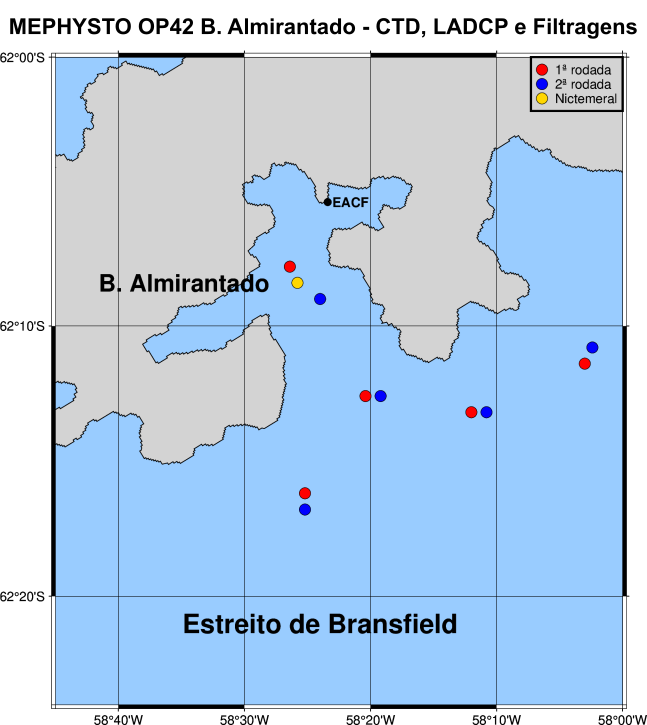
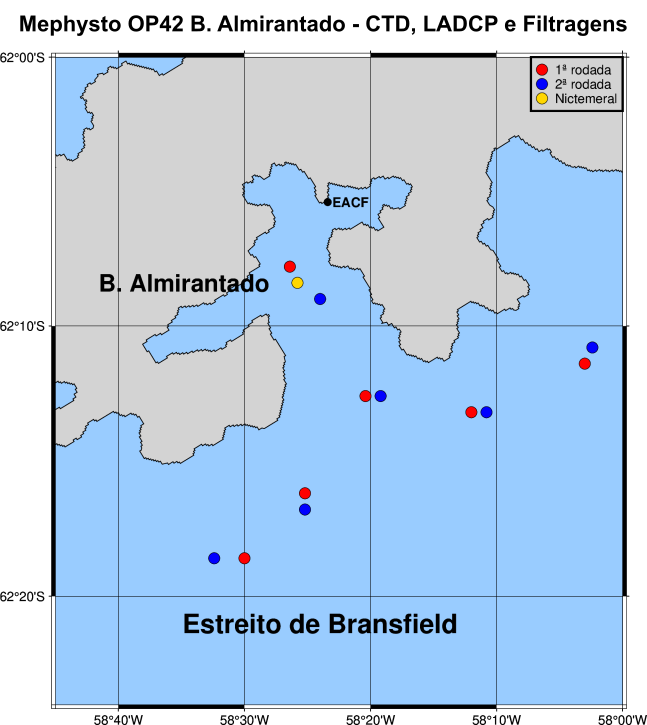
updated an error in coordinates of filtering analysis

Changed region(s): [[0.0, 0.0, 0.9892, 0.0607], [0.3709, 0.7586, 0.4019, 0.789], [0.3091, 0.7586, 0.34, 0.789]]

diff --git a/Python/almirantado_map_filtragens.py b/Python/almirantado_map_filtragens.py
@@ -13,12 +13,14 @@ import pygmt
 # Positions
 station = ("data/almirantado_filtragens.csv")
 st = pd.read_csv(station, names = ["station","latitude", "longitude"], header=0)
-lat_ida = st['latitude'].values[0:5]
-long_ida = st['longitude'].values[0:5]
-lat_volta = st['latitude'].values[6:11]
-long_volta = st['longitude'].values[6:11]
+lat_ida = st['latitude'].values[0:6]
+long_ida = st['longitude'].values[0:6]
+lat_volta = st['latitude'].values[6:12]
+long_volta = st['longitude'].values[6:12]
 lat_nict = st['latitude'].values[12]
 long_nict = st['longitude'].values[12]
+print(st[0:6])
+print(st[6:12])
 
 
 fig = pygmt.Figure()
